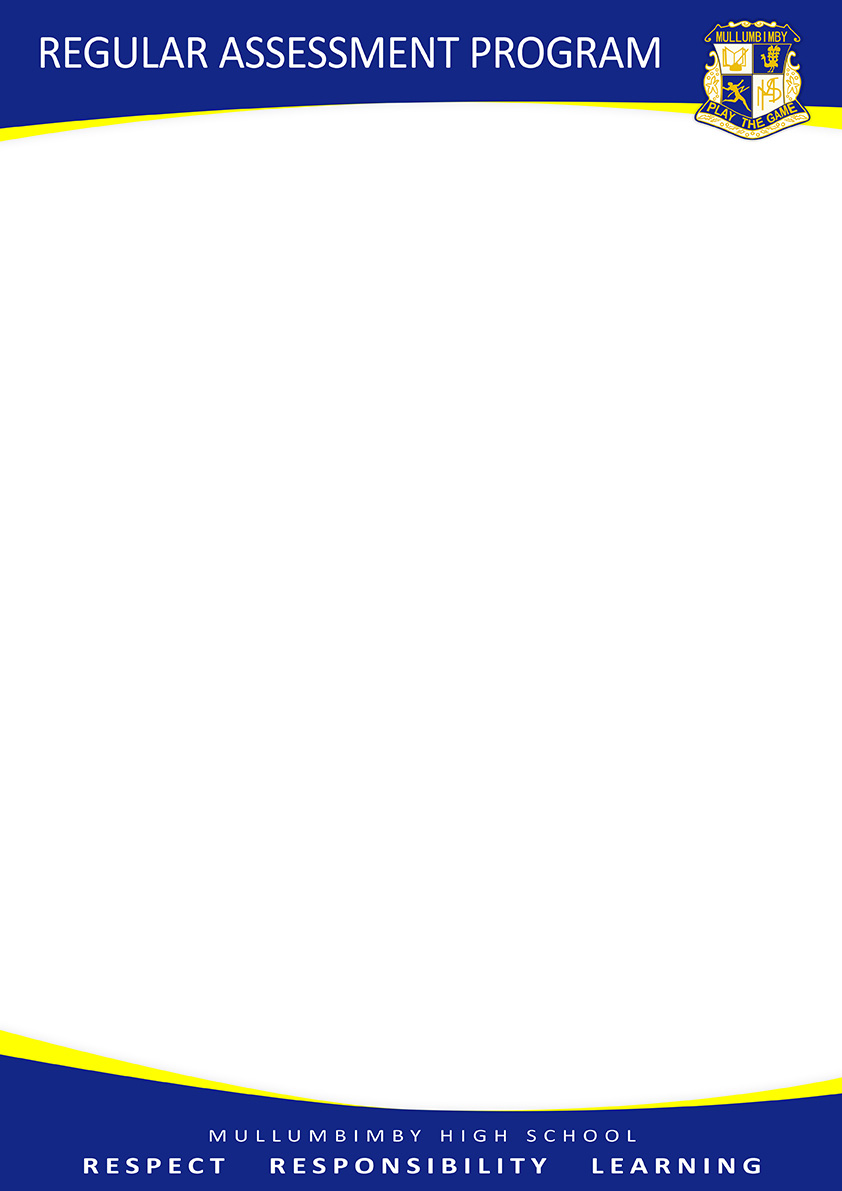
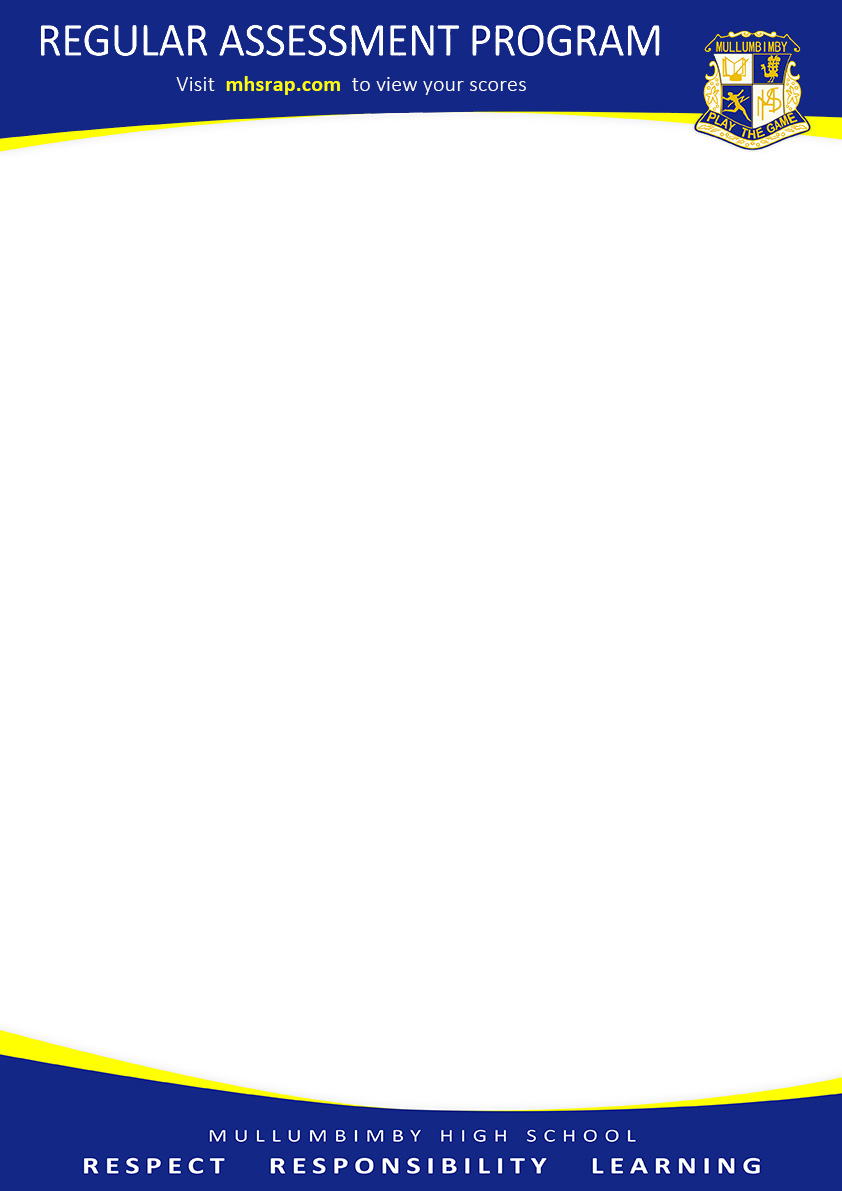
Improved RAP posters

Changed region(s): [[0.0, 0.0, 1.0, 0.1243]]

diff --git a/server/controllers/admin-pdf.js b/server/controllers/admin-pdf.js
@@ -14,30 +14,60 @@ function timeout(ms) {
 
 function calcLineGap(count) {
   //console.log(count);
-  if (count > 126) {
-    return 0;
-  } else if (count > 118) {
-    return 2;
-  } else if (count > 110) {
-    return 3;
-  } else if (count > 96) {
-    return 4;
-  } else if (count > 92) {
-    return 7;
-  } else if (count > 89) {
-    return 8;
-  } else if (count > 85) {
-    return 10;
-  } else if (count > 80) {
-    return 11;
-  } else if (count > 75) {
-    return 12;
-  } else if (count > 70) {
+  if (count <= 60) {    
+    return 23;
+  } else if (count <=63) {
+    return 22;
+  } else if (count <=66) {
+    return 20;
+  } else if (count <=69) {
+    return 19;
+  } else if (count <=72) {
+    return 17;
+  } else if (count <=75) {
+    return 16;
+  } else if (count <=78) {
+    return 14;
+  } else if (count <=81) {
     return 13;
-  } else if (count > 60) {
-    return 18;
+  } else if (count <=84) {
+    return 12;
+  } else if (count <=87) {
+    return 11;
+  } else if (count <=90) {
+    return 10;
+  } else if (count <=93) {
+    return 9;
+  } else if (count <=96) {
+    return 8;
+  } else if (count <=99) {
+    return 7;
+  } else if (count <=102) {
+    return 6.5;
+  } else if (count <=105) {
+    return 6;
+  } else if (count <=108) {
+    return 5;
+  } else if (count <=111) {
+    return 4.5;
+  } else if (count <=114) {
+    return 4;
+  } else if (count <=117) {
+    return 3.5;
+  } else if (count <=120) {
+    return 3;
+  } else if (count <=123) {
+    return 2.5;
+  } else if (count <=126) {
+    return 2;
+  } else if (count <=129) {
+    return 1.5;
+  } else if (count <=132) {
+    return 1;
+  } else if (count <=135) {
+    return 0.5;
   } else {
-    return 24;
+    return 0;
   }
 }
 
@@ -46,7 +76,6 @@ module.exports = {
   // Processes the CSV file from EMU
   async GeneratePosters(scores, ctx) {
     
-    //ctx.body = JSON.stringify(scores);
     let year = scores[0].period[0].year;
     let term = scores[0].period[0].term;
     let week = scores[0].period[0].week;
@@ -57,8 +86,8 @@ module.exports = {
       margins: {
         top: 150,
         bottom: 50,
-        left: 20,
-        right: 20
+        left: 10,
+        right: 10
       }
     });
 
@@ -70,7 +99,7 @@ module.exports = {
       let count = yearGroup.scores.length;
       console.log("Year " + yearGroup._id + ": " + count);
       await Object.values(yearGroup.scores).forEach(function(student) {
-        text += student.name + '  (' + Number(student.average).toFixed(2) + ')\n';
+        text += student.name + ' (' + Number(student.average).toFixed(2) + ')\n';
       })      
 
       if(yearGroup._id != 7) { doc.addPage(); }
@@ -91,13 +120,13 @@ module.exports = {
         );
 
       doc
-        .fontSize(16)
+        .fontSize(15)
         .font("Helvetica")
         .text(text, {
           columns: 3,
           columnGap: 5,
           height: 820,
-          width: 802,
+          width: 822,
           align: "center",
           lineGap: calcLineGap(count)
         });

diff --git a/client/pages/admin/generate.vue b/client/pages/admin/generate.vue
@@ -1,16 +1,23 @@
 <template>
   <object
+    id="pdf"
     data="http://mhsrap.com:3001/api/admin/posters.pdf"
     type="application/pdf"
     width="100%"
-    height="800px"
+    height="100%"
   >
     <p>
-      It appears you don't have a PDF plugin for this browser. No biggie... you
-      can
-      <a href="http://mhsrap.com:3001/api/admin/posters.pdf"
-        >click here to download the PDF file.</a
-      >
+      It appears you don't have a PDF plugin for this browser.
+      <a href="http://mhsrap.com:3001/api/admin/posters.pdf">
+        Click here to download the PDF file.
+      </a>
     </p>
   </object>
 </template>
+
+<style scoped>
+#pdf {
+  margin: 0 !important;
+  padding: 0 !important;
+}
+</style>

diff --git a/server/models/score.js b/server/models/score.js
@@ -523,10 +523,10 @@ ScoreSchema.statics.GetPosterData = function(period, cb) {
     {
       $match: {
         periodId: new mongoose.Types.ObjectId(period),
-        score: { $gte: 3 },
-        studentGrade: { $gte: 1 }
+        score: { $gte: 1 },
+        studentGrade: { $gte: 7 }
       }
-    },
+    },    
     // Join score table to students table
     {
       $lookup: {
@@ -556,10 +556,15 @@ ScoreSchema.statics.GetPosterData = function(period, cb) {
         average: { $avg: "$score" },
       }
     },
+    {
+      $match: {
+        average: { $gte: 3 },
+      }
+    },
     // Sort by Score
     {
       $sort: {
-        "average": -1
+        "name": 1
       }
     },
     {
